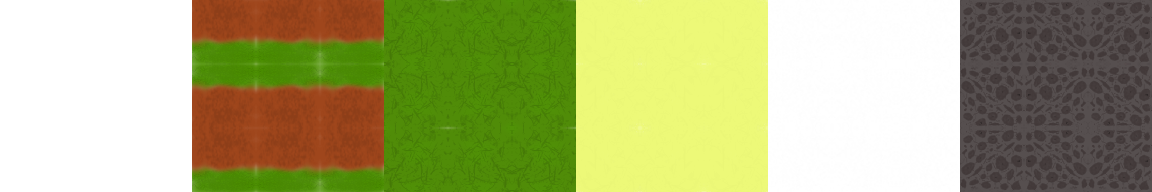
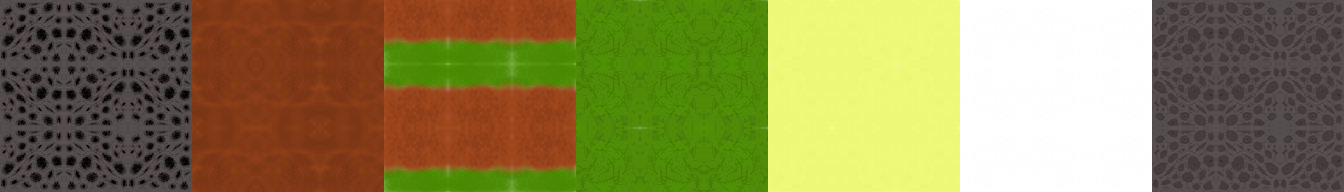
adapted the blocks to the new tilesheet generator generated struct

diff --git a/Assets/Scripts/World/Blocks/GrasBlock.cs b/Assets/Scripts/World/Blocks/GrasBlock.cs
@@ -16,10 +16,10 @@ public class GrassBlock : Block
         switch(direction)
         {
             case Direction.UP:
-                return new Vector2(TextureCords.GRAS_TOP, 1);
+                return Tilesheet.GRAS_TOP;
             case Direction.DOWN:
-                return new Vector2(TextureCords.DIRT, 1);
+                return Tilesheet.DIRT;
         }
-        return new Vector2(TextureCords.GRAS, 1);
+        return new Tilesheet.GRAS;
     }
 }

diff --git a/Assets/Scripts/World/Block.cs b/Assets/Scripts/World/Block.cs
@@ -9,7 +9,7 @@ public enum Direction { NORTH, EAST, SOUTH, WEST, UP, DOWN };
 public class Block
 {
     public bool changed = true;
-    public const float tileSize = 0.1f;
+    public static float tileSize = Tilesheet.tileSize;
 
     public virtual Vector2 TexturePosition(Direction direction)
     {

diff --git a/Assets/Scripts/World/Blocks/StoneBlock.cs b/Assets/Scripts/World/Blocks/StoneBlock.cs
@@ -8,6 +8,6 @@ public class StoneBlock : Block
 {
     public override Vector2 TexturePosition(Direction direction)
     {
-        return new Vector2(TextureCords.STONEBLOCK, 1);
+        return Tilesheet.STONEBLOCK;
     }
 }

diff --git a/Assets/Scripts/World/Blocks/DirtBlock.cs b/Assets/Scripts/World/Blocks/DirtBlock.cs
@@ -8,7 +8,6 @@ public class DirtBlock : Block
 {
     public override Vector2 TexturePosition(Direction direction)
     {
-        return new Vector2(TextureCords.DIRT, 1);
-
+        return Tilesheet.DIRT;
     }
 }

diff --git a/Assets/Scripts/World/Blocks/SandBlock.cs b/Assets/Scripts/World/Blocks/SandBlock.cs
@@ -8,6 +8,6 @@ public class SandBlock : Block
 {
     public override Vector2 TexturePosition(Direction direction)
     {
-        return new Vector2(TextureCords.SAND, 1);
+        return Tilesheet.SAND;
     }
 }

diff --git a/Assets/Scripts/World/Blocks/SnowBlock.cs b/Assets/Scripts/World/Blocks/SnowBlock.cs
@@ -8,6 +8,6 @@ public class SnowBlock : Block
 {
     public override Vector2 TexturePosition(Direction direction)
     {
-        return new Vector2(TextureCords.SNOW, 1);
+        return Tilesheet.SNOW;
     }
 }
